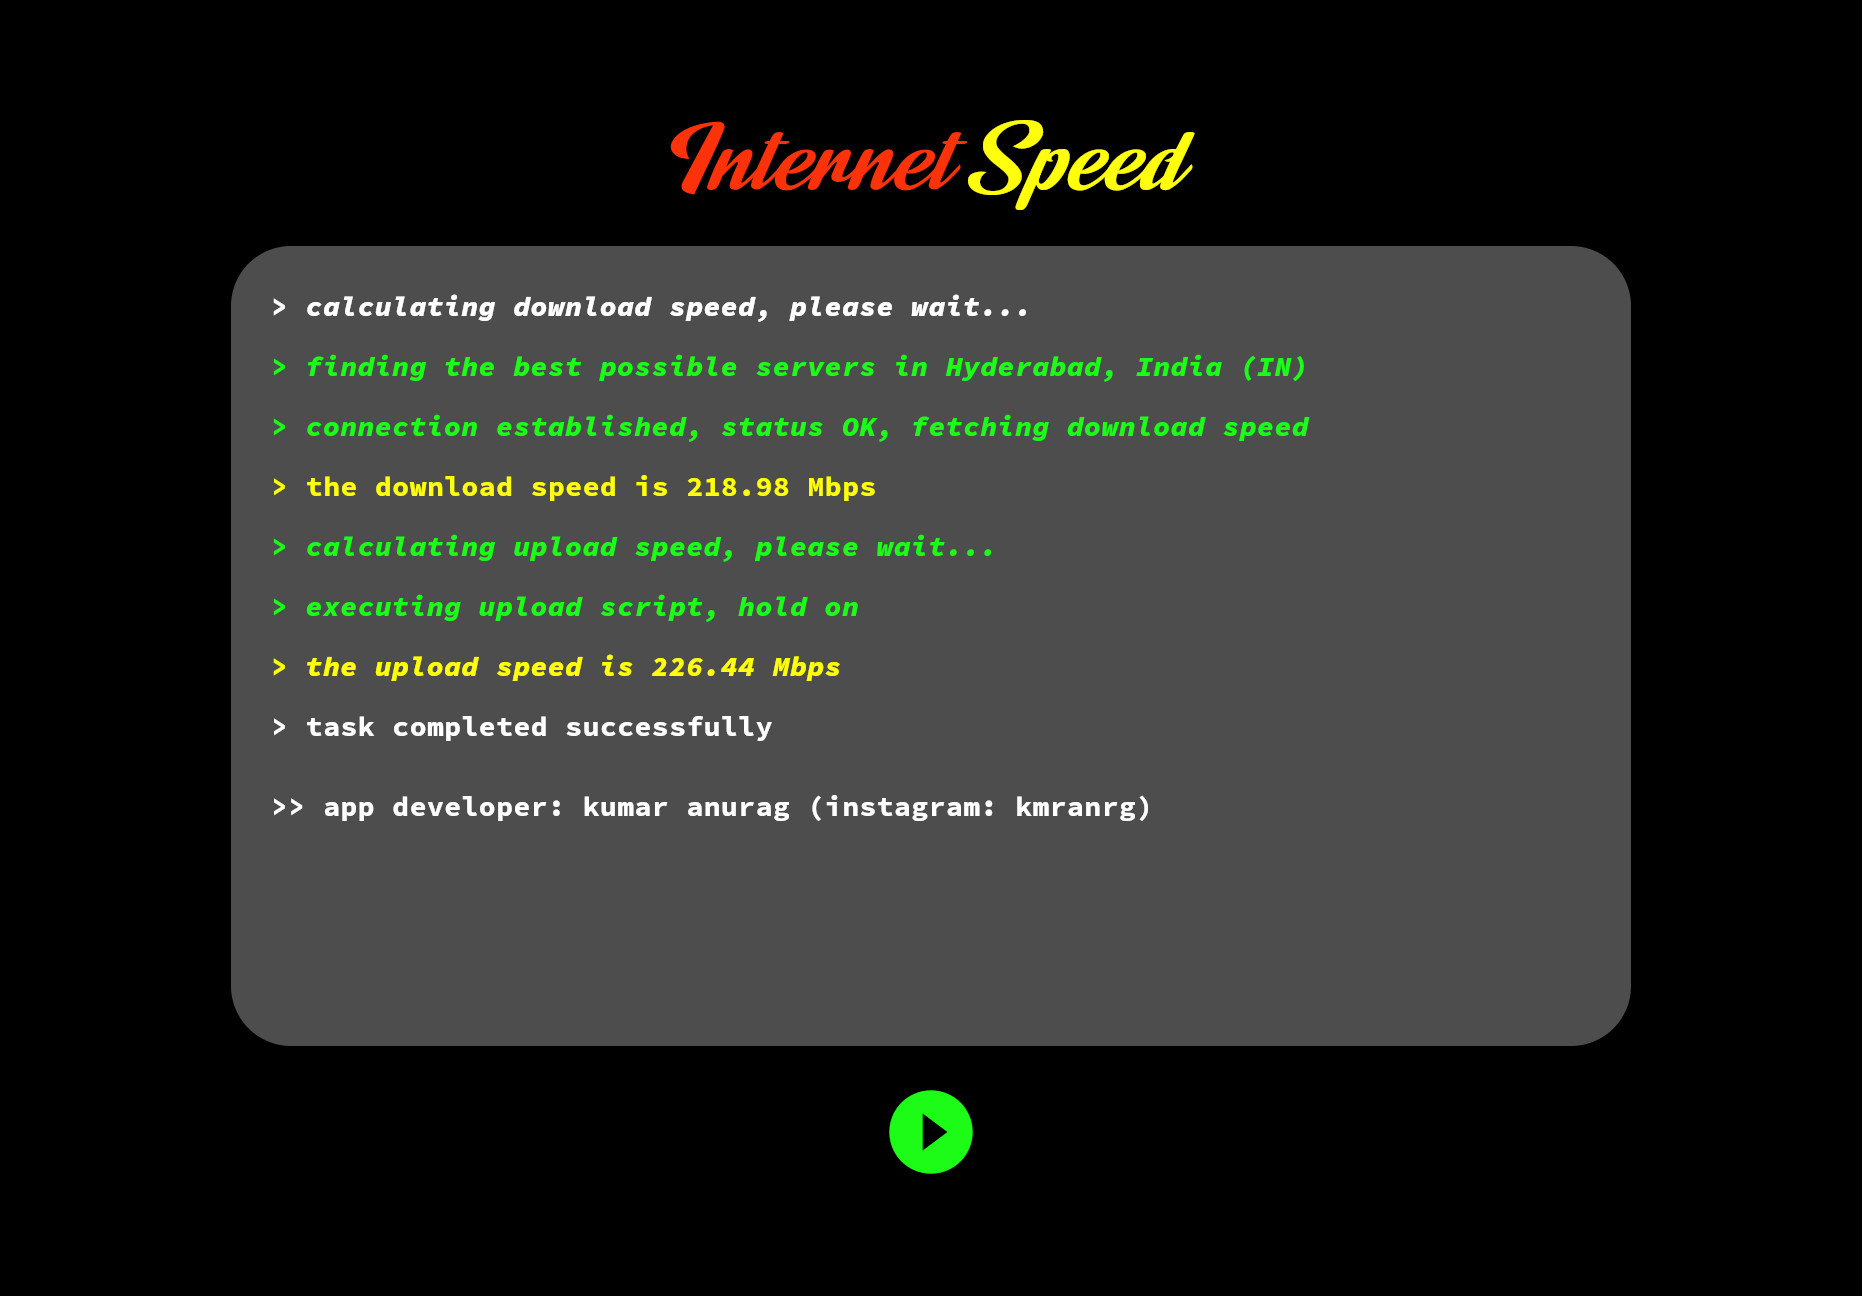
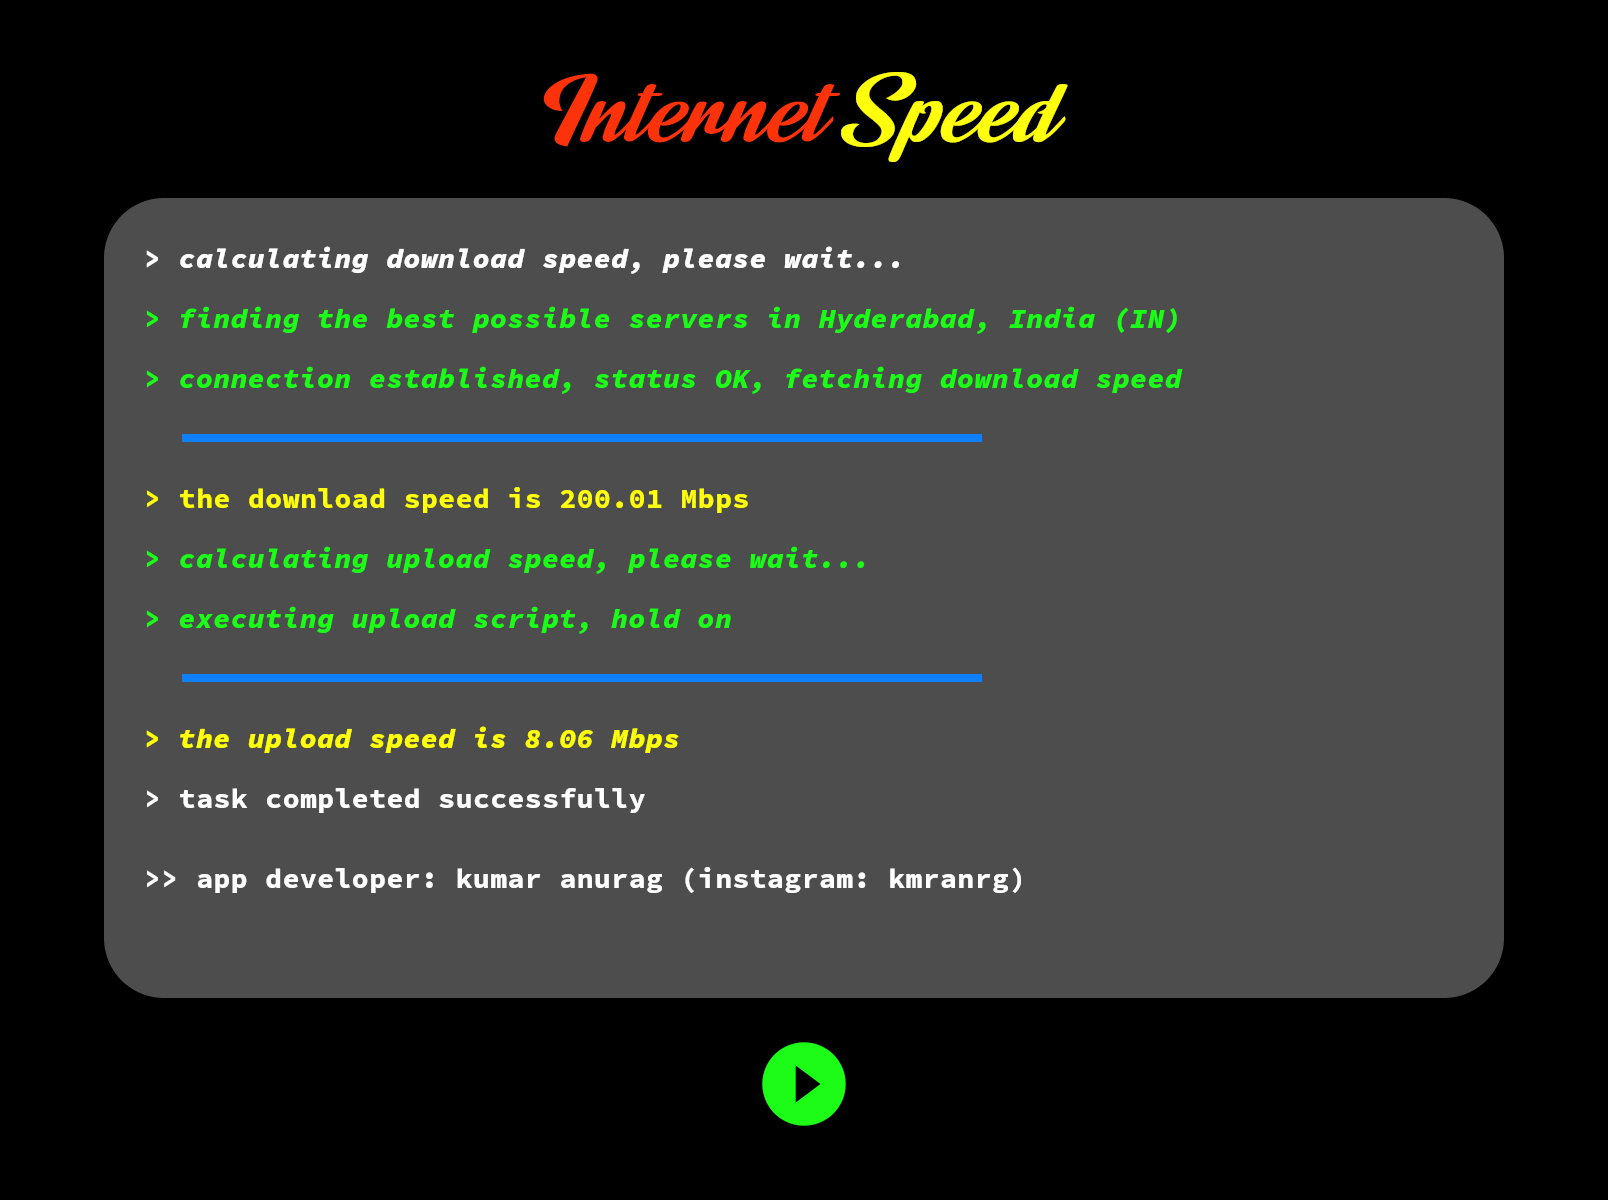
progress bar

Changed region(s): [[0.0622, 0.0617, 0.9328, 0.9558]]

diff --git a/speedTest.py b/speedTest.py
@@ -41,12 +41,18 @@ def main(page: ft.Page):
     line_01 = ft.Text(value="> press start...", font_family="SourceCodePro-BlackItalic", color="#ffffff")
     line_02 = ft.Text(value="", font_family="SourceCodePro-BlackItalic", color="#1aff1a")
     line_03 = ft.Text(value="", font_family="SourceCodePro-BlackItalic", color="#1aff1a")
+    progress_bar_01 = ft.ProgressBar(width=400, color="#0080ff", bgcolor="#eeeeee", opacity=0)
+    progress_text_01 = ft.Text(" ", font_family="SourceCodePro-BlackItalic", color="#1aff1a", opacity=0)
+    progress_row_01 = ft.Row([progress_text_01,progress_bar_01])
     line_04 = ft.Text(value="", font_family="SourceCodePro-Bold", color="#ffff00")
     line_05 = ft.Text(value="", font_family="SourceCodePro-BlackItalic", color="#1aff1a")
     line_06 = ft.Text(value="", font_family="SourceCodePro-BlackItalic", color="#1aff1a")
+    progress_bar_02 = ft.ProgressBar(width=400, color="#0080ff", bgcolor="#eeeeee", opacity=0)
+    progress_text_02 = ft.Text(" ", font_family="SourceCodePro-BlackItalic", color="#1aff1a", opacity=0)
+    progress_row_02 = ft.Row([progress_text_02,progress_bar_02])
     line_07 = ft.Text(value="", font_family="SourceCodePro-BlackItalic", color="#ffff00")
     line_08 = ft.Text(value="", font_family="SourceCodePro-Bold", color="#ffffff")
-    terminalText = ft.Column([line_01, line_02, line_03, line_04, line_05, line_06, line_07, line_08])
+    terminalText = ft.Column([line_01, line_02, line_03, progress_row_01, line_04, line_05, line_06, progress_row_02, line_07, line_08])
 
     # terminal container
     getSpeedContainer = ft.Container(
@@ -61,6 +67,12 @@ def main(page: ft.Page):
 
     # terminal animation
     def animate_getSpeedContainer(e):
+        progress_row_01.opacity = 0
+        progress_bar_01.opacity = 0
+        progress_bar_01.value = None
+        progress_row_02.opacity = 0
+        progress_bar_02.opacity = 0
+        progress_bar_02.value = None
         line_01.value = ""
         line_02.value = ""
         line_03.value = ""
@@ -83,16 +95,22 @@ def main(page: ft.Page):
         getSpeedContainer.update()
         sleep(2)
         line_03.value = "> connection established, status OK, fetching download speed"
+        progress_row_01.opacity = 1
+        progress_bar_01.opacity = 1
         getSpeedContainer.update()
         download_speed = st.download()/1024/1024 # bytes/sec to Mbps
+        progress_bar_01.value = 1
         line_04.value = f"> the download speed is {str(round(download_speed,2))} Mbps"
         getSpeedContainer.update()
         line_05.value = "> calculating upload speed, please wait..."
         getSpeedContainer.update()
         sleep(1)
         line_06.value = "> executing upload script, hold on"
+        progress_row_02.opacity = 1
+        progress_bar_02.opacity = 1
         getSpeedContainer.update()
         upload_speed = st.upload()/1024/1024 # bytes/sec to Mbps
+        progress_bar_02.value = 1
         line_07.value = f"> the upload speed is {str(round(upload_speed,2))} Mbps"
         getSpeedContainer.update()
         sleep(1)
